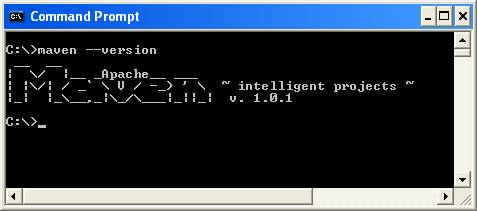
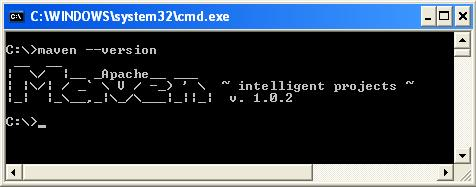
committing Chatra's patch on installationguide.html changes reflecting maven1.x. thanks chatra

diff --git a/xdocs/0_94/installationguide.html b/xdocs/0_94/installationguide.html
@@ -6,12 +6,14 @@
   <style type="text/css">
 <!--
 .style1 {
-	font-family: "Courier New", Courier, mono;
-	font-size: 14px;
-	font-style: italic;
+font-family: "Courier New", Courier, mono;
+font-size: 14px;
+font-style: italic;
 }
 .style2 {font-family: Arial, Helvetica, sans-serif}
 -->
+
+
   </style>
 </head>
 
@@ -44,80 +46,110 @@ href="mailto:axis-dev@ws.apache.org">axis-dev@ws.apache.org</a></i>
 
 <h3><a name="Download_Axis2">Download Axis2</a></h3>
 
-<p>Axis2 is distributed in several convenient distribution packages and can be installed either as a
-standalone server or as part of a J2EE compliant servlet container. Axis2 is
-distributed under the Apache License, version 2.0. You can download Axis2 <a href="http://ws.apache.org/axis2/download.cgi">here</a>. Latest release of Axis2 is version 0.94. </p>
+<p>Axis2 is distributed in several convenient distribution packages and can
+be installed either as a standalone server or as part of a J2EE compliant
+servlet container. Axis2 is distributed under the Apache License, version
+2.0. You can download Axis2 <a
+href="http://ws.apache.org/axis2/download.cgi">here</a>. Latest release of
+Axis2 is version 0.94.</p>
+
 <table width="940" border="1" cellpadding="1">
-  <tr>
-    <th width="83" scope="col">Distribution Name</th>
-    <th width="633" scope="col">Description</th>
-    <th width="202" scope="col">Items</th>
-  </tr>
-  <tr>
-    <td>Minimal Distribution - Binary </td>
-    <td>This distribution is aimed at advanced users who will be embedding Axis2. It will contain the minimal runtime required to act as a Web Service client and/or a server (axis2-core-0.94.jar will contain compiled versions of common, xml, wsdl and core modules.) </td>
-    <td><ul>
-      <li>axis2-core-0.94.jar, axis2-adb-0.94.jar</li>
-      <li>third party distributable libraries</li>
-      <li>README.TXT and release-notes.html </li>
-    </ul></td>
-  </tr>
-  <tr>
-    <td>Minimal Distribution - Source </td>
-    <td background="#_Toc96698083"><p>This will contain the sources of Axis2 minimal distribution. One can generate a binary distribution from this by typing  <span class="style1">$maven dist-min-bin. </span>(<a href="#_Toc96698083">Set up Axis2 environment</a> before running this command) </p></td>
-    <td><ul>
-      <li>sources of Axis2 common, xml, wsdl, adb and core modules </li>
-      <li>README.TXT and release-notes.html</li>
-    </ul></td>
-  </tr>
-  <tr>
-    <td>Standard Distribution - Binary </td>
-    <td>This is the complete version of Axis2 and will contain useful samples as well. Useful for some one to get familiar with Axis2. (Since WS-Addressing implementation module is engaged in to Axis2, by default, this distribution will contain addressing.mar. But  the other modules that are being developed within Axis2 will not be included here and are available to be downloaded separately from <a href="http://ws.apache.org/axis2/modules/index.html">here</a>.)</td>
-    <td><ul>
-      <li>all the content of minimal-binary distribution</li>
-      <li>Contents of codegen and DOOM modules</li>
-      <li>Samples</li>
-      <li>addressing.mar</li>
-    </ul></td>
-  </tr>
-  <tr>
-    <td>Standard Distribution - Source </td>
-    <td>This will contain the sources of Axis2 standard distribution. One can generate a binary distribution from this by typing <span class="style1">$maven dist-standard-bin. </span>(<a href="#_Toc96698083">Set up Axis2 environment</a> before running this command) </td>
-    <td><ul>
-      <li>all the content of minimal-source distribution</li>
-      <li>Contents of codegen and DOOM modules</li>
-      <li>Samples</li>
-      </ul></td>
-  </tr>
-  <tr>
-    <td>WAR (Web Archive) Distribution </td>
-    <td>This will be the web application of Axis2 which can be deployed in most of the servlet containers. </td>
-    <td><ul>
-      <li>
-        all the contents of the minimal distribution 
-      </li>
-      <li>
-        Admin web app
-      </li>
-    </ul></td>
-  </tr>
-  <tr>
-    <td>Documents Distribution </td>
-    <td>This will contain all the documentation in one package.</td>
-    <td><ul>
-      <li>xdocs</li>
-      <li>javadocs </li>
-    </ul></td>
-  </tr>
-  <tr>
-    <td>Plugin Distribution </td>
-    <td>This will contain the plugins that are created for Eclipse and IDEA.</td>
-    <td><ul>
-      <li>Intellij IDEA plugins</li>
-      <li>Eclipse plugins</li>
-    </ul></td>
-  </tr>
+  <tbody>
+    <tr>
+      <th width="83" scope="col">Distribution Name</th>
+      <th width="633" scope="col">Description</th>
+      <th width="202" scope="col">Items</th>
+    </tr>
+    <tr>
+      <td>Minimal Distribution - Binary</td>
+      <td>This distribution is aimed at advanced users who will be embedding
+        Axis2. It will contain the minimal runtime required to act as a Web
+        Service client and/or a server (axis2-core-0.94.jar will contain
+        compiled versions of common, xml, wsdl and core modules.)</td>
+      <td><ul>
+          <li>axis2-core-0.94.jar, axis2-adb-0.94.jar</li>
+          <li>third party distributable libraries</li>
+          <li>README.TXT and release-notes.html</li>
+        </ul>
+      </td>
+    </tr>
+    <tr>
+      <td>Minimal Distribution - Source</td>
+      <td background="#_Toc96698083"><p>This will contain the sources of
+        Axis2 minimal distribution. One can generate a binary distribution
+        from this by typing  <span class="style1">$maven dist-min-bin.
+        </span>(<a href="#_Toc96698083">Set up Axis2 environment</a> before
+        running this command)</p>
+      </td>
+      <td><ul>
+          <li>sources of Axis2 common, xml, wsdl, adb and core modules</li>
+          <li>README.TXT and release-notes.html</li>
+        </ul>
+      </td>
+    </tr>
+    <tr>
+      <td>Standard Distribution - Binary</td>
+      <td>This is the complete version of Axis2 and will contain useful
+        samples as well. Useful for some one to get familiar with Axis2.
+        (Since WS-Addressing implementation module is engaged in to Axis2, by
+        default, this distribution will contain addressing.mar. But  the
+        other modules that are being developed within Axis2 will not be
+        included here and are available to be downloaded separately from <a
+        href="http://ws.apache.org/axis2/modules/index.html">here</a>.)</td>
+      <td><ul>
+          <li>all the content of minimal-binary distribution</li>
+          <li>Contents of codegen and DOOM modules</li>
+          <li>Samples</li>
+          <li>addressing.mar</li>
+        </ul>
+      </td>
+    </tr>
+    <tr>
+      <td>Standard Distribution - Source</td>
+      <td>This will contain the sources of Axis2 standard distribution. One
+        can generate a binary distribution from this by typing <span
+        class="style1">$maven dist-standard-bin. </span>(<a
+        href="#_Toc96698083">Set up Axis2 environment</a> before running this
+        command)</td>
+      <td><ul>
+          <li>all the content of minimal-source distribution</li>
+          <li>Contents of codegen and DOOM modules</li>
+          <li>Samples</li>
+        </ul>
+      </td>
+    </tr>
+    <tr>
+      <td>WAR (Web Archive) Distribution</td>
+      <td>This will be the web application of Axis2 which can be deployed in
+        most of the servlet containers.</td>
+      <td><ul>
+          <li>all the contents of the minimal distribution</li>
+          <li>Admin web app</li>
+        </ul>
+      </td>
+    </tr>
+    <tr>
+      <td>Documents Distribution</td>
+      <td>This will contain all the documentation in one package.</td>
+      <td><ul>
+          <li>xdocs</li>
+          <li>javadocs</li>
+        </ul>
+      </td>
+    </tr>
+    <tr>
+      <td>Plugin Distribution</td>
+      <td>This will contain the plugins that are created for Eclipse and
+      IDEA.</td>
+      <td><ul>
+          <li>Intellij IDEA plugins</li>
+          <li>Eclipse plugins</li>
+        </ul>
+      </td>
+    </tr>
+  </tbody>
 </table>
+
 <h3><a name="requirements">System Requirements</a></h3>
 
 <table border="2">
@@ -137,7 +169,10 @@ distributed under the Apache License, version 2.0. You can download Axis2 <a hre
     </tr>
     <tr>
       <td>Maven</td>
-      <td>1.0.2 or higher (<a href="http://www.apache.org/dyn/closer.cgi/maven/binaries/">download</a> ) Please download maven 1.x version. Axis2 is not compatible with maven2 yet)
+      <td>1.0.2 or higher in 1.x series (<a
+        href="http://www.apache.org/dyn/closer.cgi/maven/binaries/">download</a>
+        ). <strong>Please download maven 1.x version. Axis2 is not compatible
+        with maven2 yet)</strong>
 
         <p>Required only for building Axis2 from source distribution</p>
       </td>
@@ -171,29 +206,31 @@ using source distribution.</p>
 
 <h4><a name="_Toc96698084" id="_Toc96698084"></a>Maven</h4>
 
-<p>The Axis2 build is based on <a href="http://maven.apache.org/">Maven </a>.
-Hence the only prerequisite to build Axis2 from source distribution is to
-have Maven installed. Extensive instruction guides are available at the Maven
-site.This guide however contains the easiest path for quick environment
-setting. Advanced users who wish to know more about Maven can visit <a
+<p>The Axis2 build is based on <a
+href="http://maven.apache.org/maven-1.x/">Maven </a>. Hence the only
+prerequisite to build Axis2 from source distribution is to have Maven
+installed. Extensive instruction guides are available at the Maven site.This
+guide however contains the easiest path for quick environment setting.
+Advanced users who wish to know more about Maven can visit <a
 href="http://maven.apache.org/start/index.html">here </a>.</p>
 <ul>
-<li>Windows</li>
+  <li>Windows</li>
+</ul>
 <ol>
   <li>Download and run the Windows installer package</li>
   <li>Set the 'Environment Variables' ( create system variable MAVEN_HOME and
-    edit path. eg: "C:\Program Files\Apache Software Foundation\maven-2.0.1";
+    edit path. eg: "C:\Program Files\Apache Software Foundation\maven-1.0.2";
     path %MAVEN_HOME%\bin)</li>
   <li>Make sure that system variable JAVA_HOME is set to the location of your
     JDK, eg. C:\Program Files\Java\jdk1.5.0_02</li>
   <li>Run maven --version to verify that it is correctly installed.</li>
 </ol>
 
-
 <p align="center"><img alt="clip_image002 (15K)"
 src="images/clip_image002.jpg" height="211" width="477"></p>
-
-<li>Unix based OS (Linux etc)</li>
+<ul>
+  <li>Unix based OS (Linux etc)</li>
+</ul>
 
 <p>The tar ball or the zip archive is the best option. Once the archive is
 downloaded expand it to a directory of choice and set the environment
@@ -201,16 +238,15 @@ variable MAVEN_HOME and add MAVEN_HOME/bin to the path as well. More
 instructions for installing Maven in Unix based operating systems can be
 found <a href="http://maven.apache.org/start/install.html">here </a>.</p>
 
-</ul>
 <p>Once maven is properly installed you can start building Axis2.</p>
 
 <h4><a name="_Toc96698085"></a>The Axis2 source distribution</h4>
 
-<p>The <a href="http://ws.apache.org/axis2/download.cgi">source distribution </a> is available as a
-zipped archive. All the necessary build scripts are included with the source
-distribution. Once the source archive is expanded into a directory of choice,
-moving to the particular directory and running maven command will build the
-Axis2 jar file.</p>
+<p>The <a href="http://ws.apache.org/axis2/download.cgi">source distribution
+</a> is available as a zipped archive. All the necessary build scripts are
+included with the source distribution. Once the source archive is expanded
+into a directory of choice, moving to the particular directory and running
+maven command will build the Axis2 jar file.</p>
 
 <p align="center"><img alt="clip_image004 (43K)" src="images/maven.jpg"
 height="248" width="668"></p>
@@ -282,17 +318,15 @@ deployed.</p>
   installation of a service. The services and the operations of successfully
   installed services will be displayed in the available services page.</p>
 
-  <p align="center"><img src="images/clip_image012.jpg"
-  alt=""></p>
+  <p align="center"><img src="images/clip_image012.jpg" alt=""></p>
 
   <p></p>
 
-  <p>If the service has deployment time error it will list those services
-  as faulty services. If you click on the link you can see the your deployment
+  <p>If the service has deployment time error it will list those services as
+  faulty services. If you click on the link you can see the your deployment
   fault error message(s).</p>
 
-  <p align="center"><img src="images/faultservice.jpg"
-  alt=""></p>
+  <p align="center"><img src="images/faultservice.jpg" alt=""></p>
 
   <p>Deployment time error message</p>
 
